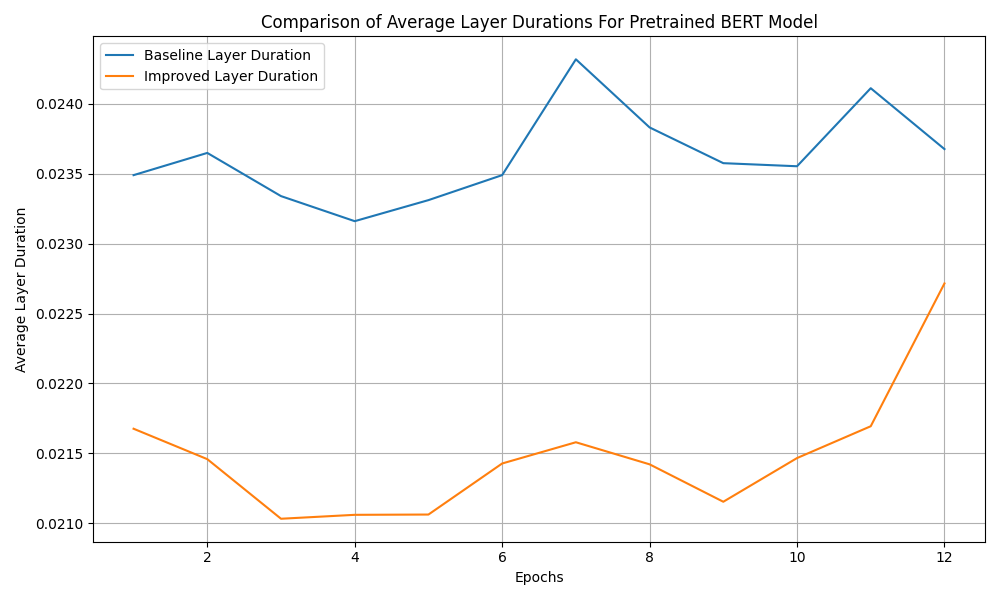
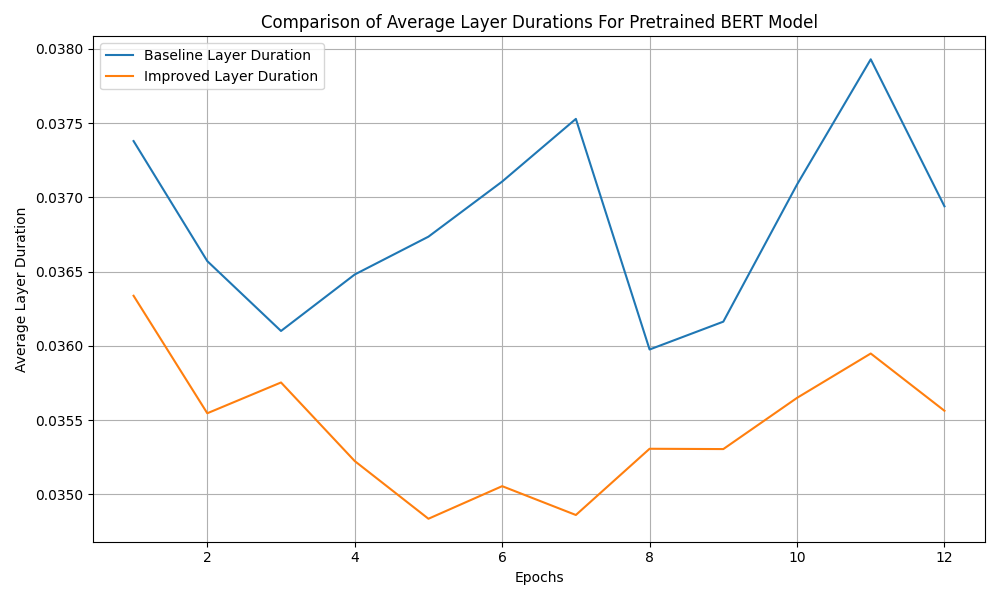
added percentage improvements for each layer on a larger dataset

diff --git a/electra_model/plot_electra_results.py b/electra_model/plot_electra_results.py
@@ -4,13 +4,7 @@ from electra_improved_edp import electra_improved_edp
 from util import make_plot
 
 
-def plot_electra_results():
-    dataset = load_dataset('ag_news', split='test[:20]')
-    test_dataset = [item['text'] for item in dataset]
-
-    average_baseline_duration, average_layer_durations, average_edp_values = electra_baseline(test_dataset)
-    average_layer_durations_improved, average_edp_values_improved = electra_improved_edp(test_dataset)
-
+def plot_electra_results(average_layer_durations, average_edp_values, average_layer_durations_improved, average_edp_values_improved):
     epochs = range(1, len(average_layer_durations) + 1)
 
     make_plot(
@@ -37,4 +31,31 @@ def plot_electra_results():
 
 
 if __name__ == "__main__":
-    plot_electra_results()
+    dataset = load_dataset('ag_news', split='test[:20]')
+    test_dataset = [item['text'] for item in dataset]
+
+    average_baseline_duration, average_layer_durations, average_edp_values = electra_baseline(test_dataset)
+    average_layer_durations_improved, average_edp_values_improved = electra_improved_edp(test_dataset)
+
+    layer_duration_percentange_improvements = []
+    for i, (average_layer_duration, average_layer_duration_improved) in enumerate(zip(average_layer_durations, average_layer_durations_improved)):
+        percentage_improvement = ((average_layer_duration - average_layer_duration_improved) / average_layer_duration) * 100
+        layer_duration_percentange_improvements.append(percentage_improvement)
+
+    print(f"average_layer_durations: {average_layer_durations}")
+    print(f"average_layer_durations_improved: {average_layer_durations_improved}")
+    print(f"layer_duration_percentange_improvements: {layer_duration_percentange_improvements}")
+
+    plot_electra_results(average_layer_durations, average_edp_values, average_layer_durations_improved, average_edp_values_improved)
+
+'''
+average_layer_durations: [0.07371768 0.07123624 0.06948195 0.07011195 0.07185886 0.07414669
+ 0.07170593 0.06898713 0.07036813 0.06963474 0.06972487 0.06746333
+ 0.06842051 0.06963035 0.06671692 0.06885062 0.06993268 0.06992246
+ 0.07025527 0.06939412 0.0680039  0.06815335 0.06955701 0.0696262 ]
+average_layer_durations_improved: [0.05913584 0.05919961 0.06009873 0.06322922 0.05957034 0.05891681
+ 0.05843711 0.05714145 0.05633676 0.05965601 0.05812391 0.05960993
+ 0.05869894 0.05732939 0.05937353 0.05705374 0.05759473 0.05779173
+ 0.05877253 0.05878348 0.05972657 0.0603663  0.06009188 0.06317177]
+layer_duration_percentange_improvements: [19.780649290648412, 16.896783639284852, 13.504534904628379, 9.816783948494042, 17.100915434380934, 20.54020378223035, 18.504490926129765, 17.17086050602551, 19.939955008608464, 14.33009466076966, 16.63819430030641, 11.640992402858767, 14.208555128575034, 17.66608451918561, 11.006784272152785, 17.134019979538092, 17.64260673280857, 17.348825449606263, 16.344311021120266, 15.290401413728885, 12.171849255887505, 11.42577631348107, 13.607735568860631, 9.27011957020678]
+'''

diff --git a/bert_model/plot_bert_results.py b/bert_model/plot_bert_results.py
@@ -5,21 +5,7 @@ from bert_improved_edp import bert_improved_edp
 from util import make_plot
 
 
-def plot_bert_results():
-    # test_dataset = [
-    #     "Hello, my name is ChatGPT. How can I assist you today?",
-    #     "What is the capital of France?",
-    #     "Explain the theory of relativity.",
-    #     "How do I bake a chocolate cake?",
-    #     "What are the benefits of machine learning?"
-    # ]
-
-    dataset = load_dataset('ag_news', split='test[:20]')
-    test_dataset = [item['text'] for item in dataset]
-
-    average_baseline_duration, average_layer_durations, average_edp_values = bert_baseline(test_dataset)
-    average_layer_durations_improved, average_edp_values_improved = bert_improved_edp(test_dataset)
-
+def plot_bert_results(average_layer_durations, average_edp_values, average_layer_durations_improved, average_edp_values_improved):
     epochs = range(1, len(average_layer_durations) + 1)
 
     make_plot(
@@ -46,4 +32,27 @@ def plot_bert_results():
 
 
 if __name__ == "__main__":
-    plot_bert_results()
+    dataset = load_dataset('ag_news', split='test[:100]')
+    test_dataset = [item['text'] for item in dataset]
+
+    average_baseline_duration, average_layer_durations, average_edp_values = bert_baseline(test_dataset)
+    average_layer_durations_improved, average_edp_values_improved = bert_improved_edp(test_dataset)
+
+    layer_duration_percentange_improvements = []
+    for i, (average_layer_duration, average_layer_duration_improved) in enumerate(zip(average_layer_durations, average_layer_durations_improved)):
+        percentage_improvement = ((average_layer_duration - average_layer_duration_improved) / average_layer_duration) * 100
+        layer_duration_percentange_improvements.append(percentage_improvement)
+
+    print(f"average_layer_durations: {average_layer_durations}")
+    print(f"average_layer_durations_improved: {average_layer_durations_improved}")
+    print(f"layer_duration_percentange_improvements: {layer_duration_percentange_improvements}")
+
+    plot_bert_results(average_layer_durations, average_edp_values, average_layer_durations_improved, average_edp_values_improved)
+
+'''
+average_layer_durations: [0.03737931 0.03657056 0.03609989 0.03648033 0.03673519 0.03710644
+ 0.03752869 0.03597507 0.0361626  0.03708625 0.03793008 0.03693984]
+average_layer_durations_improved: [0.03633713 0.0355455  0.03575294 0.03522357 0.03483485 0.03505436
+ 0.03486017 0.03530635 0.03530423 0.03564917 0.03594803 0.03556232]
+layer_duration_percentange_improvements: [2.7881075273672873, 2.802975851117472, 0.9610873293551881, 3.4450452782047662, 5.173087990107901, 5.530255016073428, 7.11060403131402, 1.8588526413113624, 2.3736500503207627, 3.8749668034942473, 5.225523848818654, 3.729078905144107]
+'''

diff --git a/t5_model/plot_t5_results.py b/t5_model/plot_t5_results.py
@@ -3,13 +3,7 @@ from t5_improved_edp import t5_improved_edp
 from util import make_plot
 from datasets import load_dataset
 
-def plot_t5_results():
-    dataset = load_dataset('ag_news', split='test[:20]') 
-    test_dataset = [item['text'] for item in dataset]
-
-    average_baseline_duration, average_layer_durations, average_edp_values = t5_baseline(test_dataset)
-    average_layer_durations_improved, average_edp_values_improved = t5_improved_edp(test_dataset)
-
+def plot_t5_results(average_layer_durations, average_edp_values, average_layer_durations_improved, average_edp_values_improved):
     epochs = range(1, len(average_layer_durations) + 1)
 
     make_plot(
@@ -36,4 +30,26 @@ def plot_t5_results():
 
 
 if __name__ == "__main__":
-    plot_t5_results()
+    dataset = load_dataset('ag_news', split='test[:20]') 
+    test_dataset = [item['text'] for item in dataset]
+
+    average_baseline_duration, average_layer_durations, average_edp_values = t5_baseline(test_dataset)
+    average_layer_durations_improved, average_edp_values_improved = t5_improved_edp(test_dataset)
+
+    layer_duration_percentange_improvements = []
+    for i, (average_layer_duration, average_layer_duration_improved) in enumerate(zip(average_layer_durations, average_layer_durations_improved)):
+        percentage_improvement = ((average_layer_duration - average_layer_duration_improved) / average_layer_duration) * 100
+        layer_duration_percentange_improvements.append(percentage_improvement)
+
+    print(f"average_layer_durations: {average_layer_durations}")
+    print(f"average_layer_durations_improved: {average_layer_durations_improved}")
+    print(f"layer_duration_percentange_improvements: {layer_duration_percentange_improvements}")
+
+
+    plot_t5_results(average_layer_durations, average_edp_values, average_layer_durations_improved, average_edp_values_improved)
+
+'''
+average_layer_durations: [0.02543422 0.02057666 0.02187943 0.02236166 0.02237343 0.02119299]
+average_layer_durations_improved: [0.0264721155166626, 0.019745063781738282, 0.019099736213684083, 0.02064269781112671, 0.02062094211578369, 0.020097637176513673]
+layer_duration_percentange_improvements: [-4.080705781886475, 4.0414345676222885, 12.704617027536525, 7.687095646091979, 7.832881060986699, 5.168475365860107]
+'''

diff --git a/gpt2_model/plot_gpt_results.py b/gpt2_model/plot_gpt_results.py
@@ -31,7 +31,6 @@ def plot_gpt_2_results(average_layer_durations, average_edp_values, average_laye
     )
 
 if __name__ == "__main__":
-    print(f"Start time: {datetime.now()}")
     dataset = load_dataset('ag_news', split='test[:500]') 
     test_dataset = [item['text'] for item in dataset]
 
@@ -48,7 +47,6 @@ if __name__ == "__main__":
     print(f"layer_duration_percentange_improvements: {layer_duration_percentange_improvements}")
 
     plot_gpt_2_results(average_layer_durations, average_edp_values, average_layer_durations_improved, average_edp_values_improved)
-    print(f"End time: {datetime.now()}")
 
 '''
 average_layer_durations: [0.02575966 0.02479245 0.02470555 0.0244479  0.02464197 0.02459989 0.02453771 0.02475476 0.02447546 0.02918374 0.02444964 0.02432861]

diff --git a/electra_model/util.py b/electra_model/util.py
@@ -4,7 +4,7 @@ import os
 from transformers import TFElectraForSequenceClassification, ElectraTokenizer
 import matplotlib.pyplot as plt
 
-path = os.path.join(os.getcwd(), "electra_model")
+path = os.getcwd()
 
 
 def get_model_and_tokenizer():

diff --git a/bert_model/util.py b/bert_model/util.py
@@ -3,7 +3,7 @@ import time
 import matplotlib.pyplot as plt
 import os
 
-path = os.path.join(os.getcwd(), "bert_model")
+path = os.getcwd()
 
 
 def make_plot(epochs, plot_1_values, label_1, plot_2_values, label_2, title, x_label, y_label):
